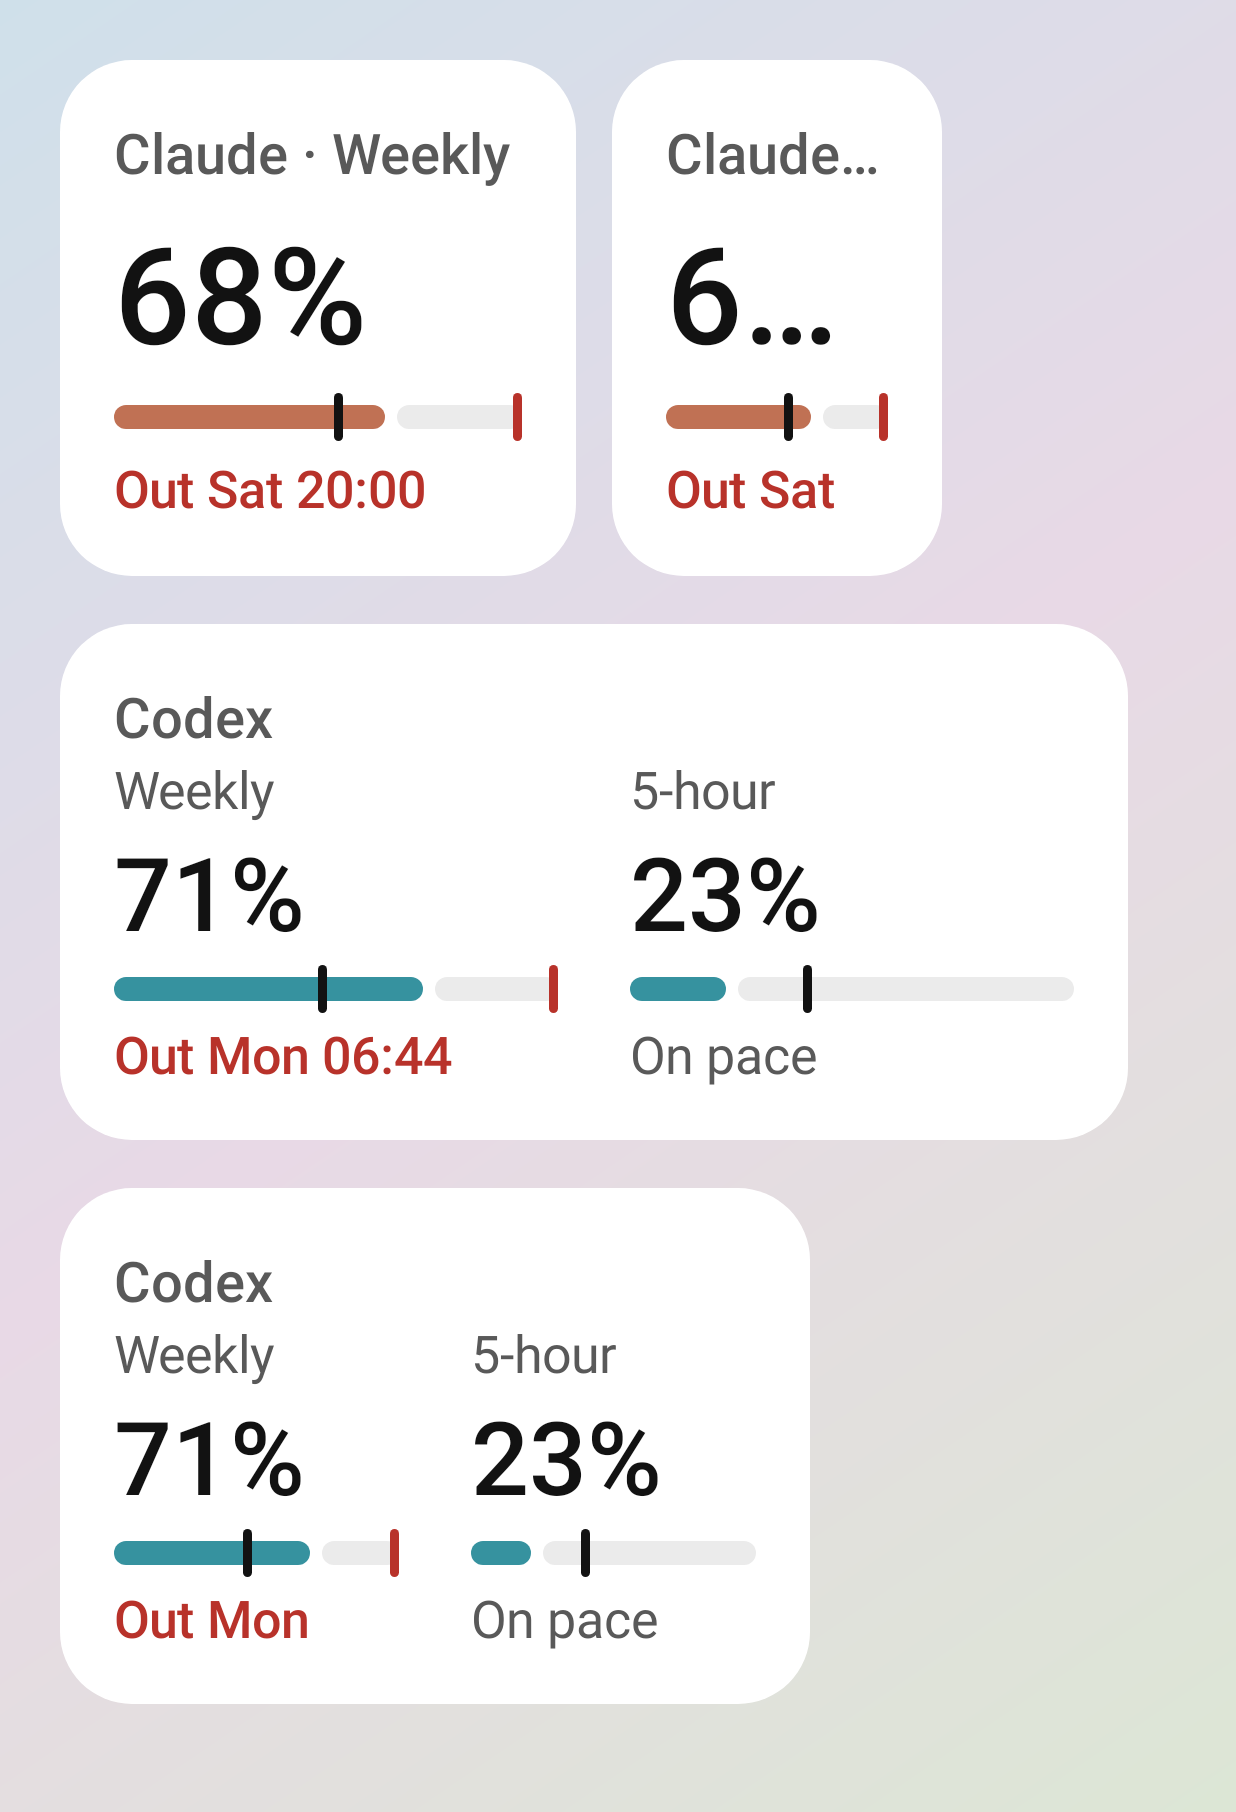
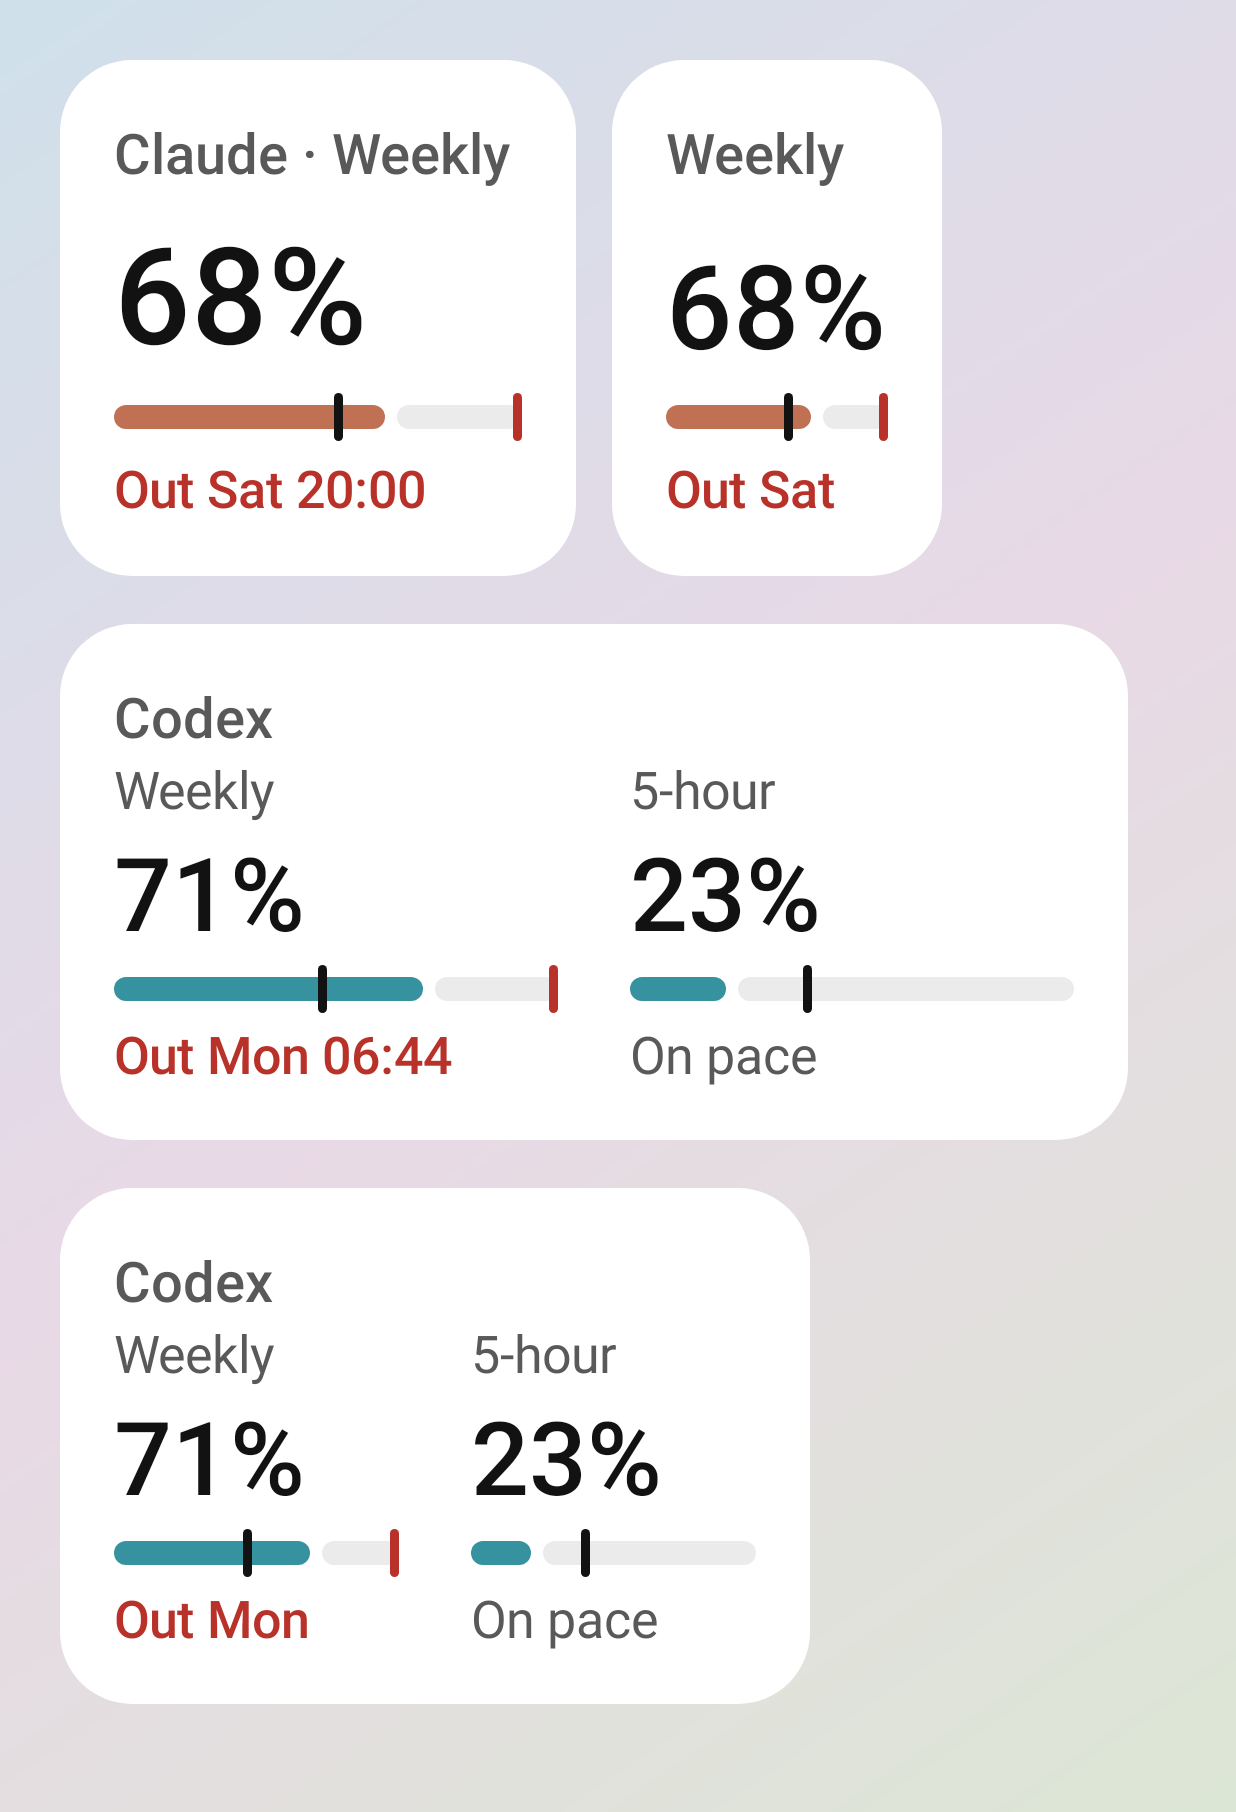
Android: a 2×2 Quotas widget at its minimum width cuts neither heading nor figure (#917)
* Android: a 2×2 Quotas widget at its minimum width cuts neither heading nor figure (#915)

* Android: name the 2×2 heading's size apart from the widget's (#915)

Changed region(s): [[0.5227, 0.0618, 0.7071, 0.2163]]

diff --git a/android/app/src/main/kotlin/dev/starbridge/app/widget/Widgets.kt b/android/app/src/main/kotlin/dev/starbridge/app/widget/Widgets.kt
@@ -316,12 +316,16 @@ internal fun outWords(at: Instant, now: Instant, h24: Boolean, zone: ZoneId = Zo
         today.minusDays(1) -> "yesterday"
         else -> null
     }
-    // A weekday names a day within a week either way; further off, the date.
-    val far = if (abs(ChronoUnit.DAYS.between(today, date)) < 7) weekday(at, zone, locale) else day(at, zone, locale)
+    // Today, the time alone; a weekday names a day within a week either way; further off, the date.
+    val far = when {
+        date == today -> ""
+        abs(ChronoUnit.DAYS.between(today, date)) < 7 -> weekday(at, zone, locale)
+        else -> day(at, zone, locale)
+    }
     val days = listOfNotNull(near, far)
-    val words = if (at.isAfter(now)) days.map { "Runs out $it $time" } + days.map { "Out $it $time" } + days.map { "Out $it" }
+    val words = if (at.isAfter(now)) days.map { "Runs out $it $time" } + days.map { "Out $it $time" } + days.filter(String::isNotEmpty).map { "Out $it" }
     else days.map { "Ran out $it $time" } + days.map { "Ran out $it" } + "Ran out"
-    return words.distinct()
+    return words.map { it.replace("  ", " ").trim() }.distinct()
 }
 
 /** How wide [text] sets in the widgets' sans (Glance's FontWeight.Medium is sans-serif-medium), under the phone's font scale. */
@@ -416,7 +420,9 @@ internal fun QuotasWidget(rows: List<QuotaRow>?, p: Palette, choice: Choice? = n
         }
         val inner = size.width - 36.dp
         if (!wide) {
-            Text("${first.window.provider} · ${first.window.window}", style = style(14.sp, p.fg2, medium = true), maxLines = 1)
+            // Too narrow for both names (#915), the quota's alone: its meter's colour names the provider.
+            val (head, headSize) = LocalContext.current.fitting(listOf("${first.window.provider} · ${first.window.window}", first.window.window), inner, 14.sp, true)
+            Text(head, style = style(headSize, p.fg2, medium = true), maxLines = 1)
             Spacer(GlanceModifier.defaultWeight())
             Figure(first, inner, p)
             return@Card
@@ -476,12 +482,15 @@ internal fun QuotasWidget(rows: List<QuotaRow>?, p: Palette, choice: Choice? = n
 /** A quota as the 2×2 draws it: its figure, its meter and its state, in the clearest words that fit [width]. */
 @Composable
 private fun Figure(row: QuotaRow, width: Dp, p: Palette, figure: TextUnit = 45.sp, gap: Dp = 4.dp) {
-    Text("${row.percent}%", style = style(figure, p.fg, medium = true), maxLines = 1)
+    val context = LocalContext.current
+    // Set smaller where "100%" is wider than the column: a 2×2 at its 110 dp minimum (#915).
+    val (percent, percentSize) = context.fitting(listOf("${row.percent}%"), width, figure, true)
+    Text(percent, style = style(percentSize, p.fg, medium = true), maxLines = 1)
     Spacer(GlanceModifier.height(gap))
     Meter(row, width, p)
     Spacer(GlanceModifier.height(gap))
     val medium = row.mood == Mood.Bad
-    val (words, size) = LocalContext.current.fitting(row.words, width, 13.sp, medium)
+    val (words, size) = context.fitting(row.words, width, 13.sp, medium)
     Text(words, style = style(size, row.mood.color(p), medium = medium), maxLines = 1)
 }
 

diff --git a/android/app/src/test/kotlin/dev/starbridge/app/QuotasWidgetTest.kt b/android/app/src/test/kotlin/dev/starbridge/app/QuotasWidgetTest.kt
@@ -129,12 +129,13 @@ class QuotasWidgetTest {
     @Test fun aWindowThatRunsOutSaysWhenInWordsThatShortenToFit() {
         // Friday 9 Oct, 14:00 UTC.
         fun words(at: String, h24: Boolean = true, locale: Locale = Locale.US) = outWords(Instant.parse(at), now, h24, ZoneOffset.UTC, locale)
-        assertEquals(listOf("Runs out today 18:30", "Runs out Fri 18:30", "Out today 18:30", "Out Fri 18:30", "Out today", "Out Fri"), words("2026-10-09T18:30:00Z"))
+        assertEquals(listOf("Runs out today 18:30", "Runs out 18:30", "Out today 18:30", "Out 18:30", "Out today"), words("2026-10-09T18:30:00Z"))
         assertEquals("Runs out tomorrow 6:44 AM", words("2026-10-10T06:44:00Z", h24 = false).first())
         assertEquals(listOf("Runs out Mon 06:44", "Out Mon 06:44", "Out Mon"), words("2026-10-12T06:44:00Z"))
         assertEquals("Out lun.", words("2026-10-12T06:44:00Z", locale = Locale.FRANCE).last())
         // A week or more away, the date: a weekday would name the wrong one.
         assertEquals("Runs out Oct 16 06:44", words("2026-10-16T06:44:00Z").first())
+        assertEquals(listOf("Ran out today 13:40", "Ran out 13:40", "Ran out today", "Ran out"), words("2026-10-09T13:40:00Z"))
         assertEquals(listOf("Ran out yesterday 22:00", "Ran out Thu 22:00", "Ran out yesterday", "Ran out Thu", "Ran out"), words("2026-10-08T22:00:00Z"))
     }
 
@@ -237,6 +238,28 @@ class QuotasWidgetTest {
             scale,
         )
     }
+
+    /**
+     * 2×2s at their declared minimum width, 110 dp (#915), two rows tall as elsewhere (the widget
+     * resizes only across): a window that runs out, one that ran out at 100%, one on pace.
+     */
+    private fun minimum(scale: Float) {
+        val ranOut = windows.map {
+            if (it.id == "c5") it.copy(usedPercent = 100, pace = Pace.RunsOut(now.minus(Duration.ofMinutes(20)))) else it
+        }
+        val least = DpSize(110.dp, 172.dp)
+        shoot(
+            "minimum${if (scale != 1f) "-font-$scale" else ""}",
+            dark = false,
+            listOf(
+                listOf(widget(Choice(claude, listOf("Weekly"))) to least, widget(Choice(claude, listOf("5-hour")), ranOut) to least, widget(Choice(codex, listOf("5-hour"))) to least),
+            ),
+            scale,
+        )
+    }
+
+    @Test fun minimumSize() = minimum(1f)
+    @Test fun minimumSizeAtFontScale13() = minimum(1.3f)
 
     @OptIn(ExperimentalGlanceApi::class)
     private fun shoot(name: String, dark: Boolean, lines: List<List<Pair<GlanceAppWidget, DpSize>>>, scale: Float = 1f) {

diff --git a/SPEC.md b/SPEC.md
@@ -1032,11 +1032,17 @@ first window, so a provider with a window running out leads.
   "Runs out tomorrow 06:44", else "Runs out Mon 06:44", "Out Mon 06:44", "Out Mon", the first
   that fits its column whole, measured at the phone's font scale; "Ran out yesterday 22:00"
   shortens the same way. The weekday and time follow the phone's language, zone and the Clock
-  setting; a week or more away, the date replaces the weekday. The Quotas screen's sentence
+  setting; today, the time alone ("Out 18:30") replaces the weekday, and a week or more away,
+  the date. The Quotas screen's sentence
   ("Will run out on 13 Oct at 06:44") was cut off in a widget's column, losing the time. The
   widget always gives a clock time, never "in 3 h", since a launcher redraws it only every 30
   minutes. Where even "Out Mon" does not fit (Polish "niedz." at font scale 1.3 in a 2×2 at its
   110 dp minimum), it sets smaller (12.5 sp there) rather than cut off.
+- **A 2×2 Quotas widget at its 110 dp minimum width cuts nothing** (#915): its heading drops
+  the provider ("Weekly" for "Claude · Weekly") when both don't fit, the meter's colour still
+  naming it, and its figure sets smaller where "100%" is wider than the column. Raising
+  `minWidth` would not help: from Android 12 the launcher sizes a 2×2 by its grid, and the widget
+  resizes only across, so its height is always two rows.
 - **Each Quotas widget shows the quotas picked for it** (#907). Dropping one opens a picker, as
   Todoist's and Keep's widgets do; Reconfigure on a long press opens it again. A 2×2 takes one
   quota, in one tap; a 4×2 takes two of one plan, side by side as the 2×2 draws one: a plan with
